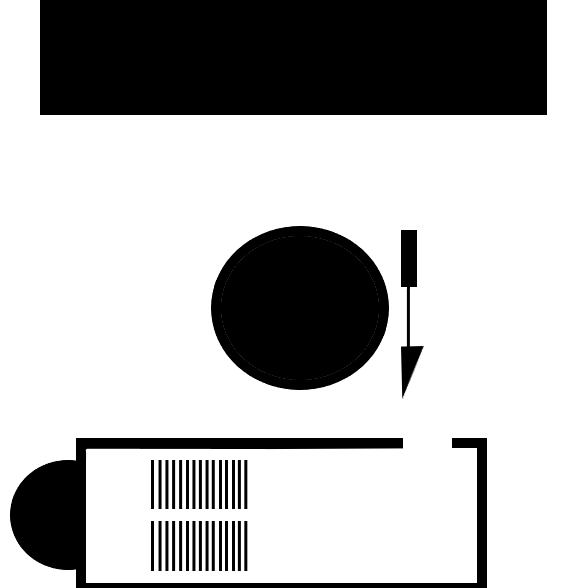
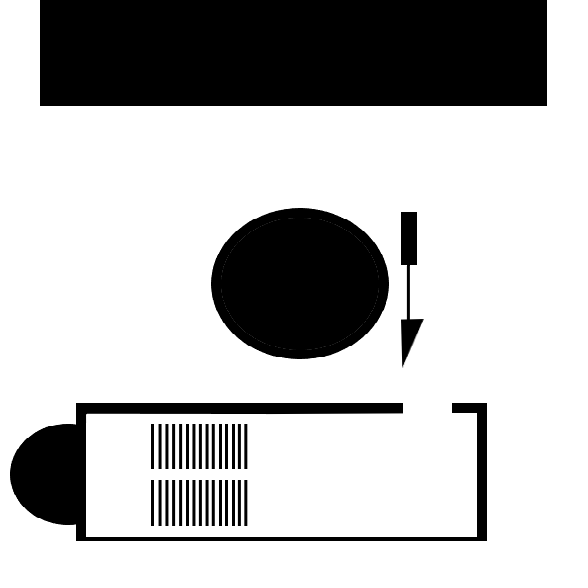
rum 9 billede ændret

diff --git a/Eksamensprojekt/JagtenPaaDenFedeLyd.xaml b/Eksamensprojekt/JagtenPaaDenFedeLyd.xaml
@@ -13,7 +13,11 @@
 
         <Grid.Background>
 
-            <ImageBrush ImageSource ="Assets/Rum 9.png" Stretch="Fill"></ImageBrush>
+            <ImageBrush ImageSource ="Assets/Rum 9.png" Stretch="Fill">
+                <ImageBrush.Transform>
+                    <CompositeTransform TranslateX="0" TranslateY="60"/>
+                </ImageBrush.Transform>
+            </ImageBrush>
         </Grid.Background>
         <RelativePanel Margin="0,0,0,706" Background="DarkGoldenrod" HorizontalAlignment="Stretch" Grid.RowSpan="2" VerticalAlignment="Stretch">
             <Button Name="HamburgerButton" Background="Goldenrod" FontFamily="Segoe MDL2 Assets" FontSize="40" Content="&#xE700;" Margin="10,5,0,0" Click="HamburgerButton_OnClick" HorizontalAlignment="Left" VerticalAlignment="Top"></Button>
